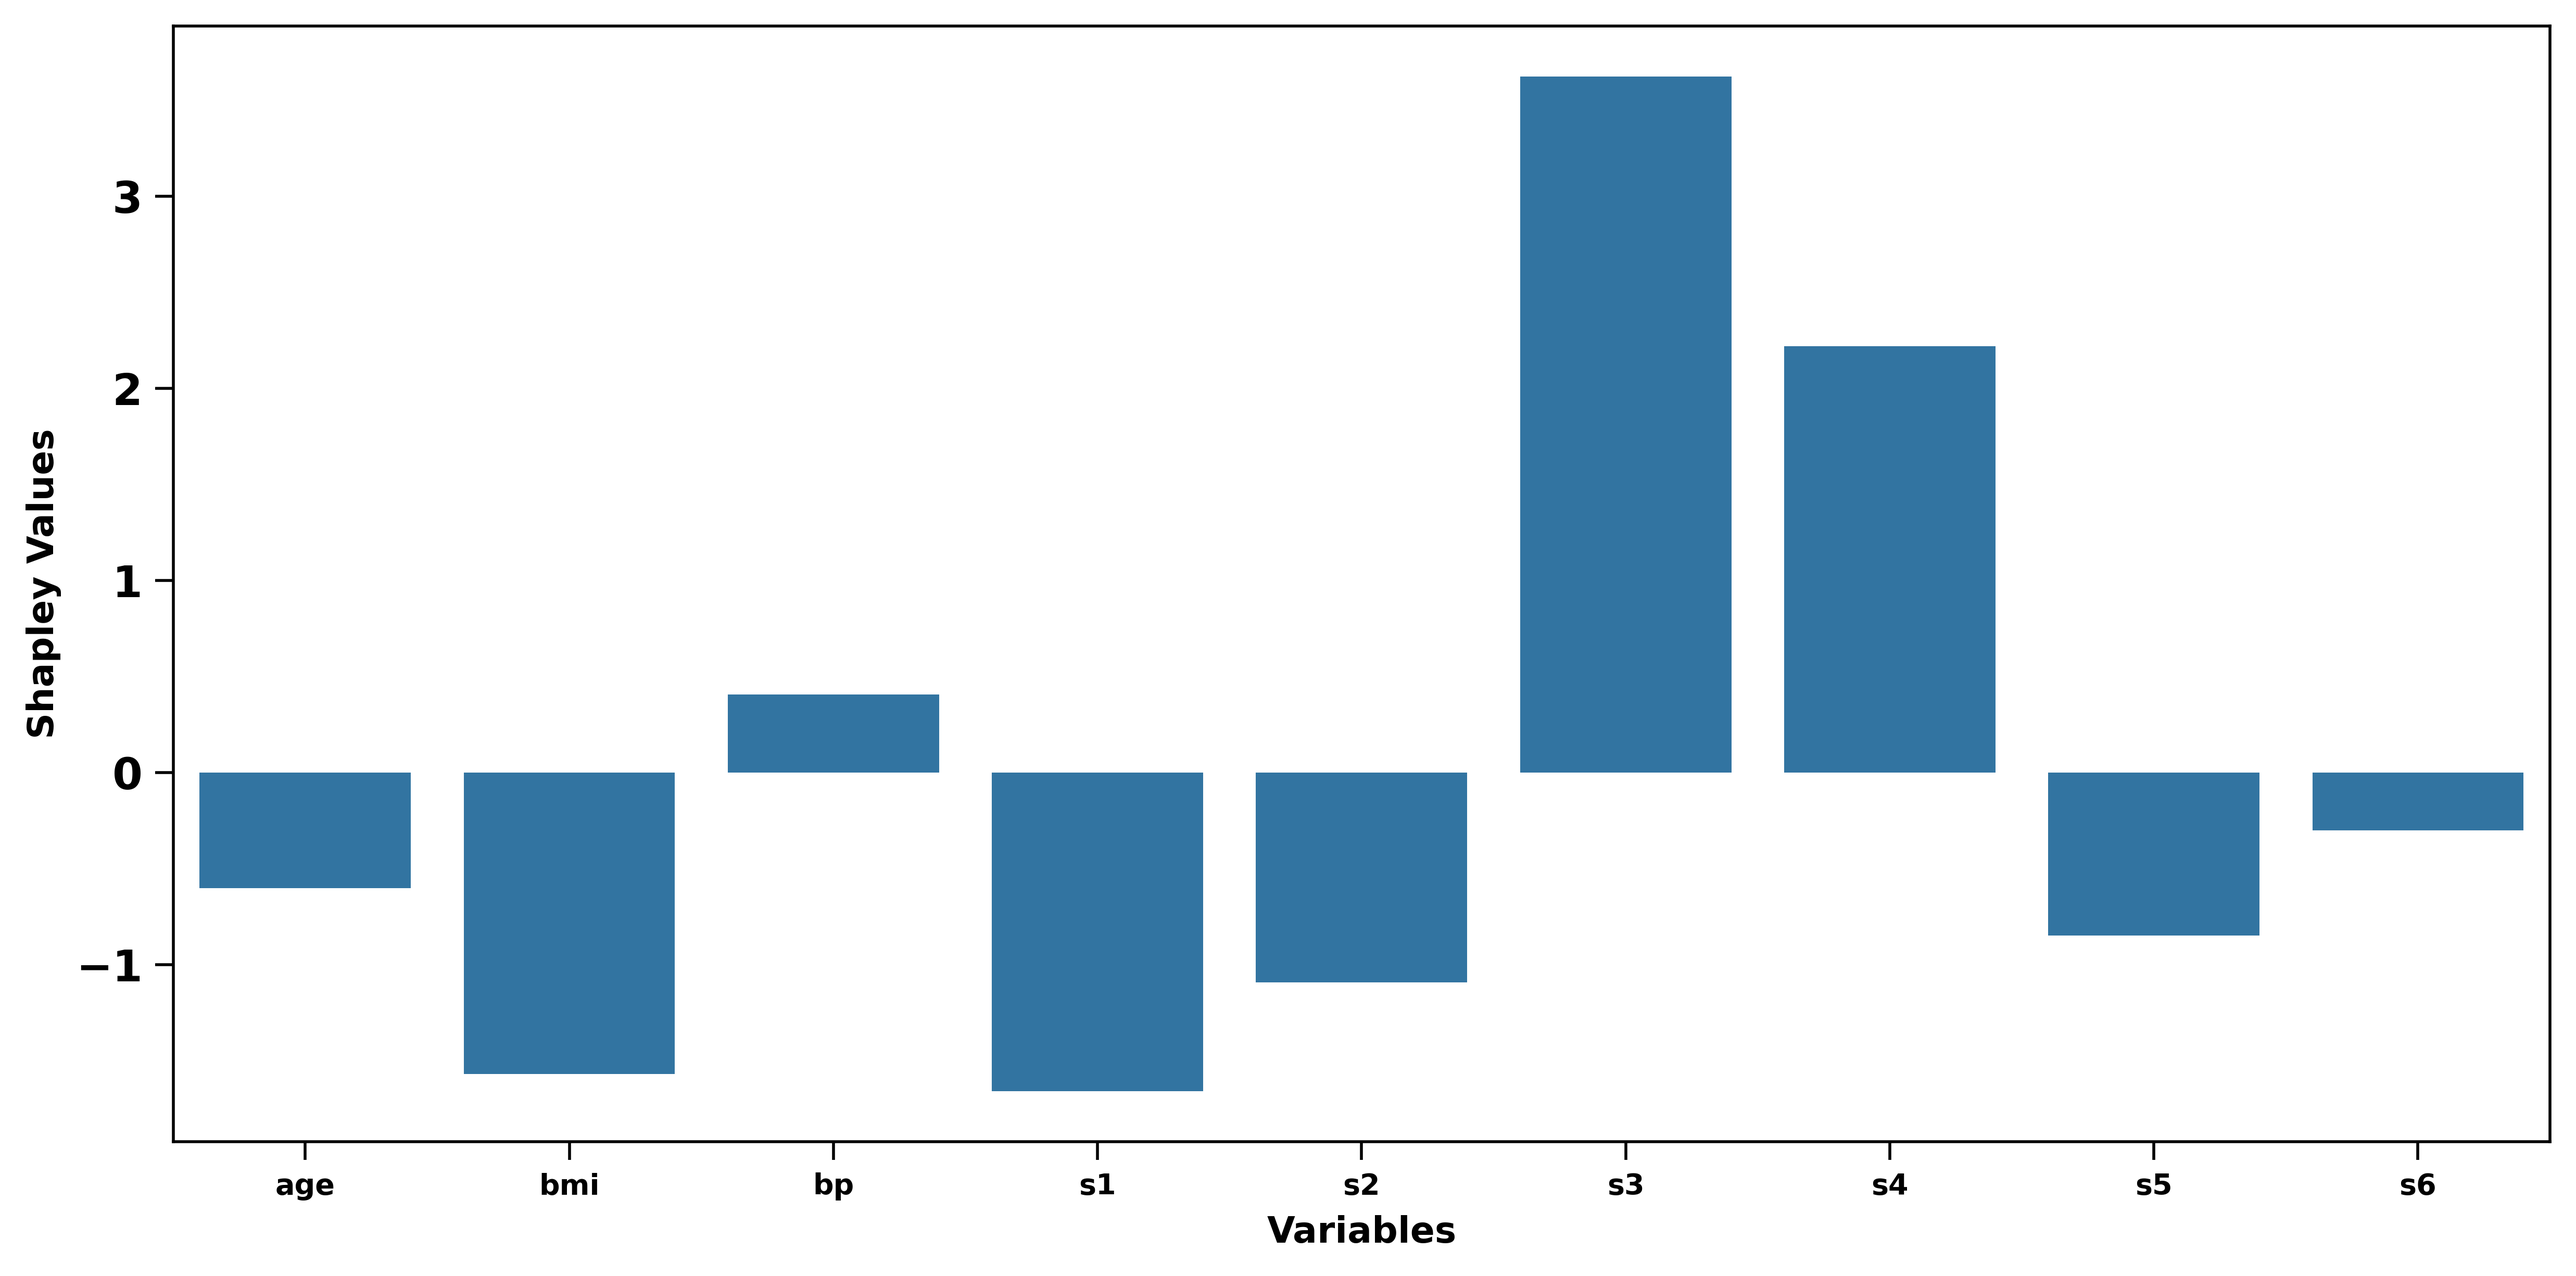
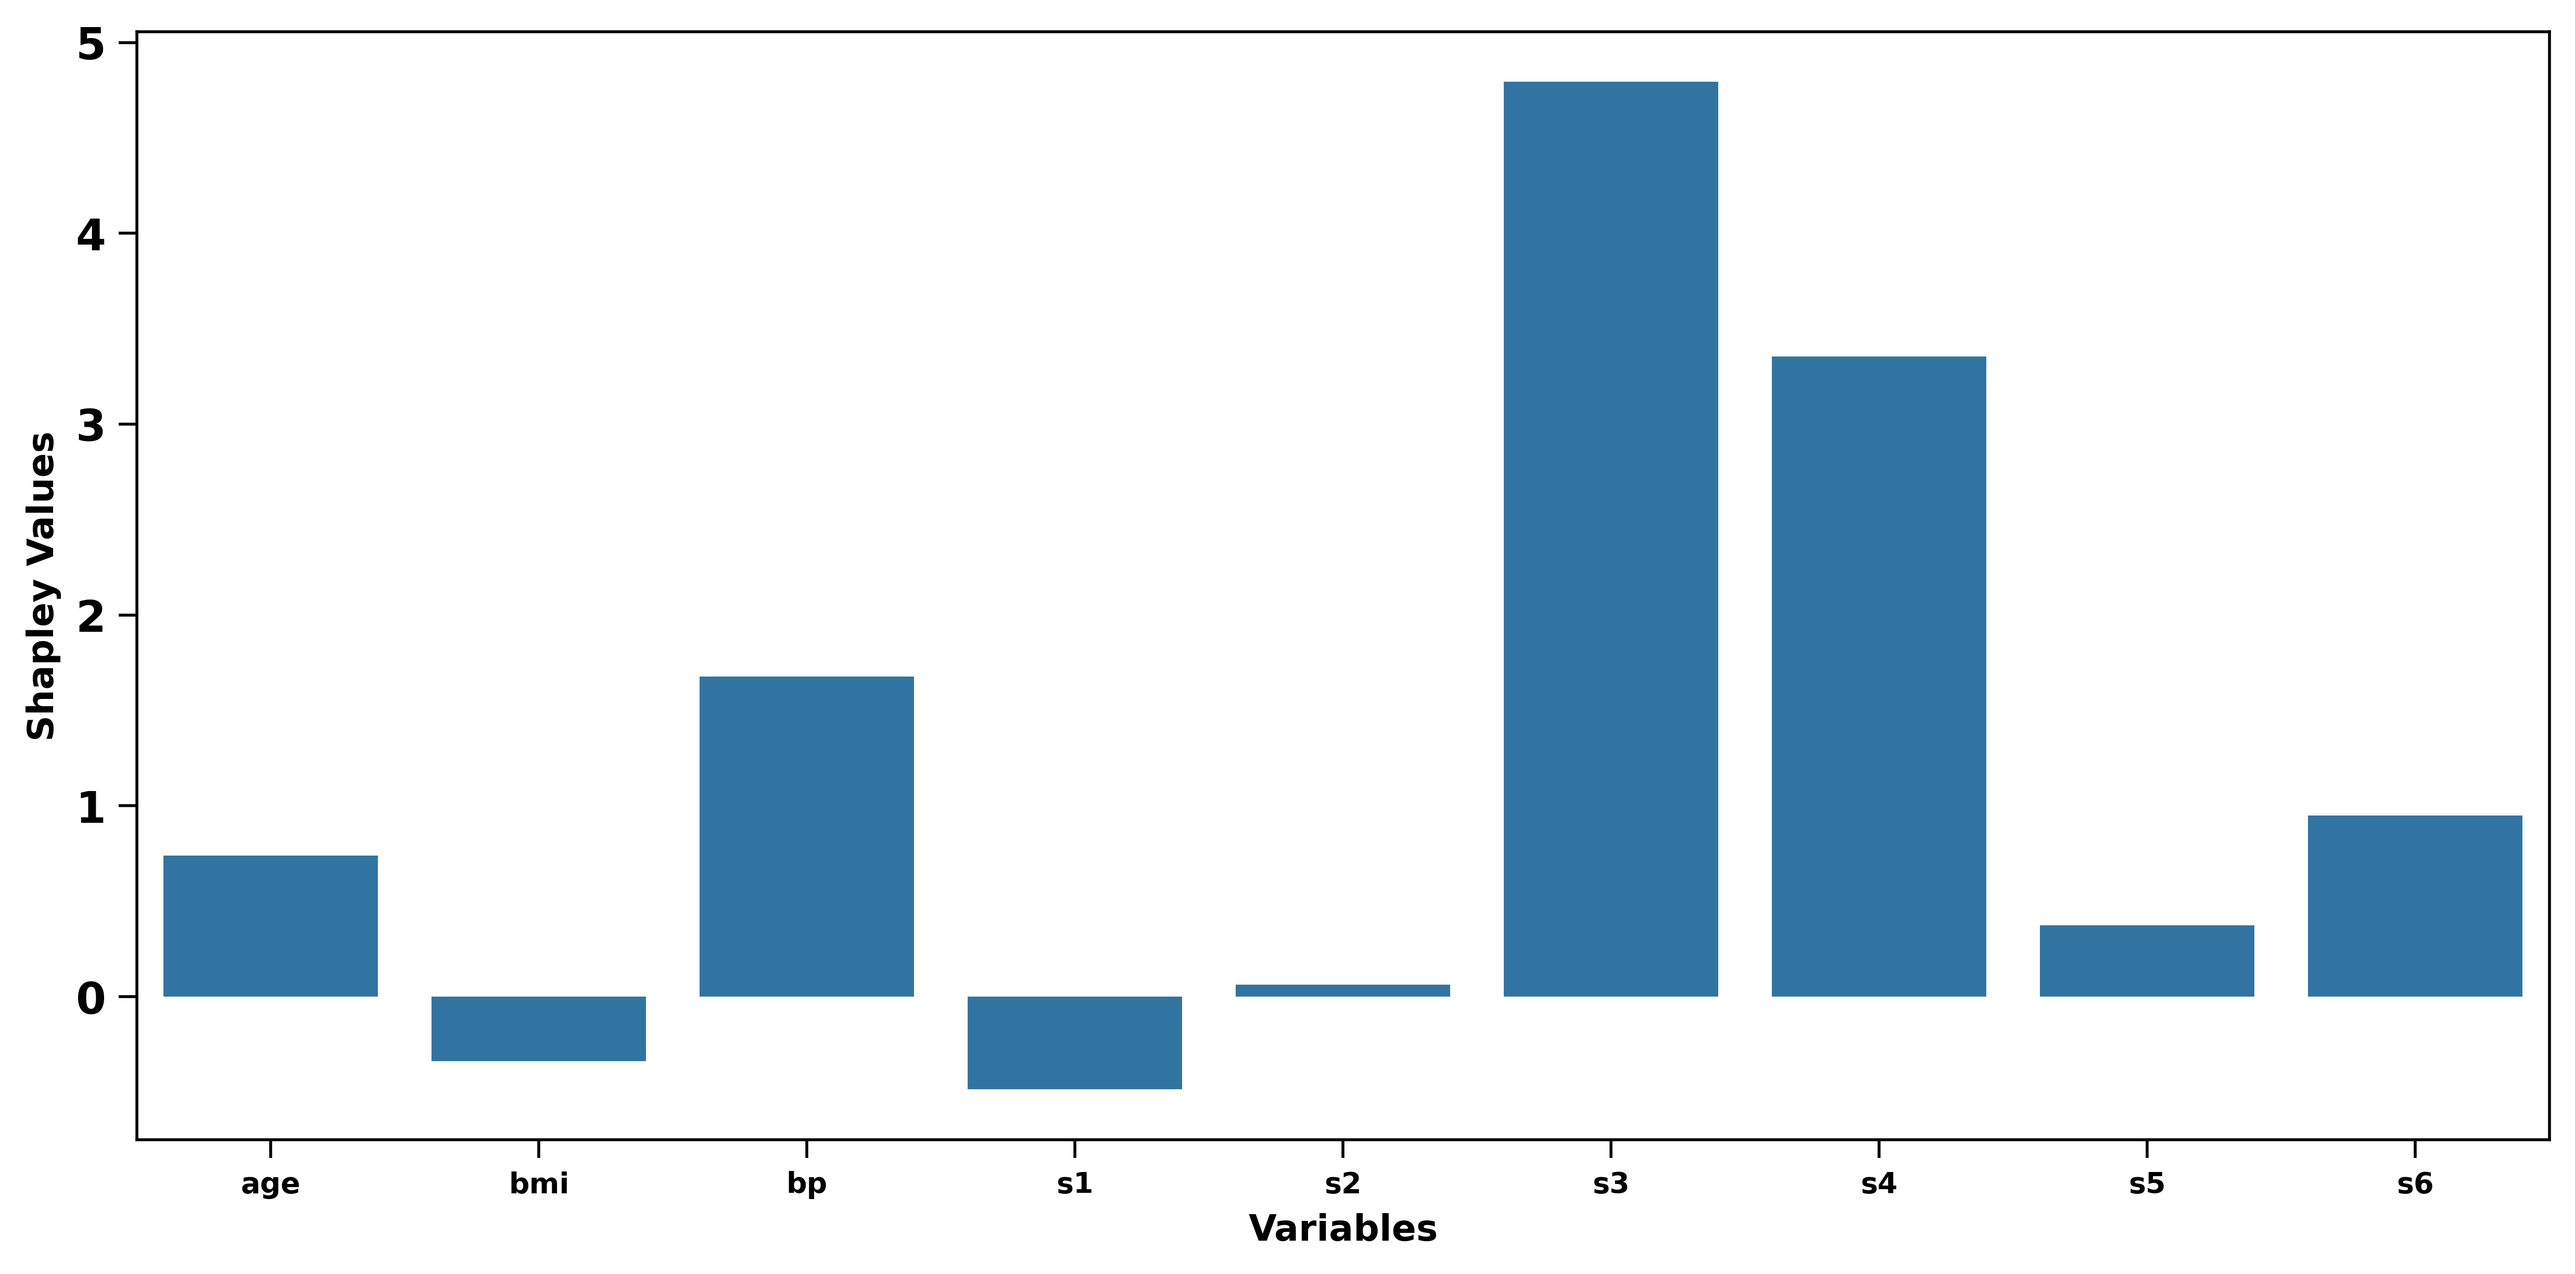
local_fd

diff --git a/localexp_fd.py b/localexp_fd.py
@@ -40,33 +40,33 @@ def compute_y(k_vectors, samples, alpha):
     return np.array(y)  
 
 # Define the number of features for each dataset
-ds = [100] #10, 20, 50, 100
+ds = [10, 20, 50, 70]#
+n_instances = 5
 
 # Create results directory if it doesn't exist
 results_dir = "results"
 os.makedirs(results_dir, exist_ok=True)
+excel_file_name = "sv_second_try.xlsx"
 
 plot_only = False
 if not plot_only:
     for d in ds:
         # Generate dataset
         X, y = make_regression(n_samples=50*d, n_features=d, noise=0.1)
-        scaler_X = StandardScaler()
-        scaler_y = StandardScaler()
-        X = scaler_X.fit_transform(X)
-        y = scaler_y.fit_transform(y.reshape(-1, 1)).flatten()
+        # scaler_X = StandardScaler()
+        # scaler_y = StandardScaler()
+        # X = scaler_X.fit_transform(X)
+        # y = scaler_y.fit_transform(y.reshape(-1, 1)).flatten()
 
         # Optimize SVM
         svm_optimized = optimize_svm_rbf(X, y, n_trials=10)
         model = svm_optimized['model']
 
-        # Select 100 instances
-        n_instances = 100
         indices = np.random.choice(X.shape[0], size=n_instances, replace=False)
         X_tbx = X[indices, :]
 
         # Create Excel file
-        excel_file = os.path.join(results_dir, f"sv_d{d}_normalized.xlsx")
+        excel_file = os.path.join(results_dir, f"d{d}_" + excel_file_name)
         workbook = Workbook()
         sheet_rbf = workbook.active
         sheet_rbf.title = "RBFExplainer"
@@ -89,7 +89,7 @@ if not plot_only:
 
         # Compute Shapley regression values with varying number of samples
         max_samples = min(2**d, 100000)
-        sample_sizes = np.logspace(np.log10(100), np.log10(max_samples), num=10, dtype=int)
+        sample_sizes = np.logspace(np.log10(200), np.log10(max_samples), num=10, dtype=int)
 
         shapley_regression_times = []
         for sample_size in sample_sizes:
@@ -99,17 +99,16 @@ if not plot_only:
             shapley_regression_values = []
             shapley_regression_times_instance = []
 
+            samples_weights = kernel_shap_sampling(d, sample_size)
+            samples = np.array([t[0] for t in samples_weights])
+            weights = np.array([t[1] for t in samples_weights])
+
+            samples = np.vstack([samples, np.ones(samples[0].shape)]).astype(int)
+            weights = np.hstack([np.ones_like(weights), 1e30])
+
             for i, x in enumerate(X_tbx):
                 start_time = time.time()
-                
                 k_vectors = np.array(explainer.compute_kernel_vectors(X[model.support_, :], x))
-                samples_weights = kernel_shap_sampling(d, sample_size)
-                samples = np.array([t[0] for t in samples_weights])
-                weights = np.array([t[1] for t in samples_weights])
-
-                samples = np.vstack([samples, np.ones(samples[0].shape)]).astype(int)
-                weights = np.hstack([weights, 1e30])
-
                 y_values = compute_y(k_vectors, samples, model.dual_coef_.squeeze())
 
                 shap_reg = Shapley_regression(np.array(samples, dtype='float'), y_values, weights)
@@ -128,14 +127,14 @@ if not plot_only:
         workbook.save(excel_file)
 
 # Plot results
-fig, axes = plt.subplots(1, 4, figsize=(15, 5))
+fig, axes = plt.subplots(1, 4, figsize=(15, 5), sharey=False)
 axes = axes.flatten()
 n_instances = 100
-ds = [10, 20, 50, 100]
+ds = [10, 20, 50]
 
 for idx, d in enumerate(ds):
     # Load results
-    excel_file = os.path.join(results_dir, f"sv_d{d}_normalized.xlsx")
+    excel_file = os.path.join(results_dir, f"d{d}_" + excel_file_name)
     workbook = load_workbook(excel_file)
 
     # Extract RBFExplainer results
@@ -160,19 +159,19 @@ for idx, d in enumerate(ds):
         sheet = workbook[sheet_name]
         shapley_regression_values = np.array([row[1:d+1] for row in sheet.iter_rows(min_row=1, max_row=n_instances, values_only=True)])
 
-        errors = np.linalg.norm(shapley_regression_values - rbf_shapley_values, axis=1, ord=1) #/ abs(np.sum(rbf_shapley_values, axis=1))
+        errors = np.mean((abs(shapley_regression_values - rbf_shapley_values) / abs(rbf_shapley_values)), axis=1)  # np.linalg.norm(shapley_regression_values - rbf_shapley_values, axis=1, ord=1) / abs(np.sum(rbf_shapley_values, axis=1))
         delta_sv.append(errors)
 
     delta_sv = np.array(delta_sv)
 
     # Plot error bars and fill_between
-    for i in range(delta_sv.shape[1]):
-        axes[idx].plot(sample_sizes, delta_sv[:, i], alpha=0.5, label=f"Instance {i+1}" if i < 5 else None)
+    # for i in range(delta_sv.shape[1]):
+    #     axes[idx].plot(sample_sizes, delta_sv[:, i], alpha=0.5, label=f"Instance {i+1}" if i < 5 else None)
 
-    # mean_errors = np.mean(delta_sv, axis=1)
-    # std_errors = np.std(delta_sv, axis=1)
-    # axes[idx].plot(sample_sizes, mean_errors, color="black", label="Mean Error", linewidth=2)
-    # mean_errors = np.mean(delta_sv, axis=1)
+    median_error = np.median(delta_sv, axis=1)
+    std_errors = np.std(delta_sv, axis=1)
+    axes[idx].plot(sample_sizes, median_error, color="black", label="Mean Error", linewidth=2)
+    # mean_errors = np.mdian(delta_sv, axis=1)
     # std_errors = np.std(delta_sv, axis=1)
     # axes[idx].errorbar(sample_sizes, mean_errors, yerr=std_errors, label="Error")
     # axes[idx].fill_between(sample_sizes, mean_errors - std_errors, mean_errors + std_errors, alpha=0.2)
@@ -185,7 +184,7 @@ for idx, d in enumerate(ds):
 
 plt.tight_layout()
 plt.show()
-plt.savefig(f"results/delta_shapley_samples.png", dpi=500, format='png', bbox_inches='tight')
+plt.savefig(f"results/delta_shapley_samples_second_run.png", dpi=500, format='png', bbox_inches='tight')
 
 
 # Boxplot execution times

diff --git a/hypothesis_testing.py b/hypothesis_testing.py
@@ -125,7 +125,7 @@ ax.set_ylabel("Shapley Values")
 
 plt.tight_layout()
 plt.show()
-plt.savefig('results/mmd/hypothesis_testing_wine.png', dpi=500, format='png', bbox_inches='tight')
+plt.savefig('results/mmd/hypothesis_testing_diabetes.png', dpi=500, format='png', bbox_inches='tight')
 
 fig, axes = plt.subplots(nrows=3, ncols=3, figsize=(15, 12))
 
@@ -140,4 +140,4 @@ for i, ax in enumerate(axes.flatten()):
 plt.tight_layout()
 plt.show()
 
-plt.savefig('results/hypothesis_testing_wine_distributions.png', dpi=500, format='png', bbox_inches='tight')
+plt.savefig('results/hypothesis_testing_diabetes_distributions.png', dpi=500, format='png', bbox_inches='tight')
